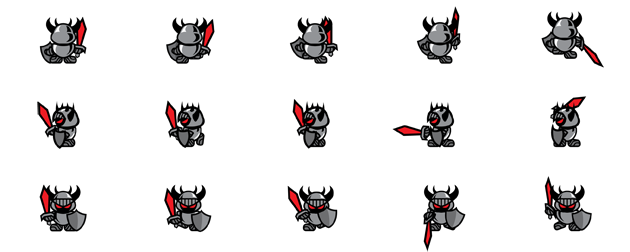
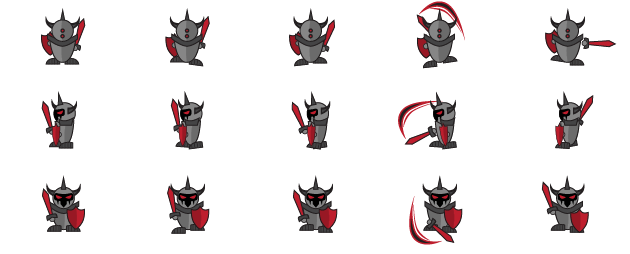
Modified AnimatedSprite and the player animation behaviour. Fixed crash in tutorial when hit by a bullet from a BulletSpawn. Applied new player animation sheets.

diff --git a/core/src/com/vhelium/lotig/components/AnimatedSprite.java b/core/src/com/vhelium/lotig/components/AnimatedSprite.java
@@ -3,18 +3,20 @@ package com.vhelium.lotig.components;
 import com.badlogic.gdx.graphics.g2d.Batch;
 import com.badlogic.gdx.graphics.g2d.TextureRegion;
 import com.badlogic.gdx.scenes.scene2d.Group;
+import com.vhelium.lotig.constants.Log;
 
 public class AnimatedSprite extends Group
 {
+	public boolean debug = false;
 	private TiledTextureRegion tiledTextureRegion;
 	private boolean animationRunning;
-	private int currentTileIndex;
+	private int currentAnimationIndex;
 	private float animationProgress;
 	private float frameTime;
 	private boolean isFlipped = false;
 	private boolean loop = false;
 	private IAnimationListener listener;
-	private int frameStart, frameEnd;
+	private int[] frames;
 	
 	public AnimatedSprite(float x, float y, TiledTextureRegion tiledTextureRegion)
 	{
@@ -25,6 +27,7 @@ public class AnimatedSprite extends Group
 	{
 		this.tiledTextureRegion = tiledTextureRegion;
 		this.setBounds(x, y, width, height);
+		currentAnimationIndex = 0;
 		updateFlip();
 	}
 	
@@ -38,18 +41,18 @@ public class AnimatedSprite extends Group
 			if(animationProgress >= frameTime)
 			{
 				animationProgress -= frameTime;
-				if(currentTileIndex >= frameEnd)
+				if(currentAnimationIndex >= frames.length - 1)
 				{
 					if(!loop)
 					{
-						currentTileIndex = frameEnd;
+						currentAnimationIndex = frames.length - 1;
 						onAnimationFinished();
 					}
 					else
-						currentTileIndex = frameStart;
+						currentAnimationIndex = 0;
 				}
 				else
-					currentTileIndex++;
+					currentAnimationIndex++;
 			}
 		}
 		super.act(delta);
@@ -59,7 +62,9 @@ public class AnimatedSprite extends Group
 	public void draw(Batch batch, float parentAlpha)
 	{
 		batch.setColor(getColor().r, getColor().g, getColor().b, getColor().a * parentAlpha);
-		batch.draw(tiledTextureRegion.getTextureRegion(currentTileIndex), this.getX(), this.getY(), this.getOriginX(), this.getOriginY(), this.getWidth(), this.getHeight(), this.getScaleX(), this.getScaleY(), this.getRotation());
+		if(debug)
+			Log.e("animatedsprite", "i: " + currentAnimationIndex + ",  frame: " + frames[currentAnimationIndex] + " --- progress: " + animationProgress);
+		batch.draw(tiledTextureRegion.getTextureRegion(frames[currentAnimationIndex]), this.getX(), this.getY(), this.getOriginX(), this.getOriginY(), this.getWidth(), this.getHeight(), this.getScaleX(), this.getScaleY(), this.getRotation());
 		super.draw(batch, parentAlpha);
 	}
 	
@@ -73,32 +78,33 @@ public class AnimatedSprite extends Group
 		animate(frameTime, loop, null);
 	}
 	
-	public void animate(float frameTime, int startFrame, int endFrame, boolean loop)
+	public void animate(float frameTime, int[] frames, boolean loop)
 	{
-		animate(frameTime, startFrame, endFrame, loop, null);
+		animate(frameTime, frames, loop, null);
 	}
 	
 	public void animate(float frameTime, boolean loop, IAnimationListener listener)
 	{
-		animate(frameTime, 0, tiledTextureRegion.getTileCount() - 1, loop, listener);
+		animate(frameTime, getFrameDefaults(), loop, listener);
 	}
 	
-	public void animate(float frameTime, int startFrame, int endFrame, boolean loop, IAnimationListener listener)
+	public void animate(float frameTime, int[] frames, boolean loop, IAnimationListener listener)
 	{
 		animationRunning = true;
 		animationProgress = 0;
 		this.frameTime = frameTime;
-		this.frameStart = startFrame;
-		this.currentTileIndex = startFrame;
-		this.frameEnd = endFrame;
+		this.frames = frames;
+		this.currentAnimationIndex = 0;
 		this.loop = loop;
 		this.listener = listener;
 	}
 	
-	public void stopAnimation(int frameIndex)
+	public void stopAnimationAt(int frameIndex)
 	{
 		animationRunning = false;
-		currentTileIndex = frameIndex;
+		currentAnimationIndex = 0;
+		animationProgress = 0;
+		frames = new int[] { frameIndex };
 	}
 	
 	private void onAnimationFinished()
@@ -134,5 +140,18 @@ public class AnimatedSprite extends Group
 			for(TextureRegion reg : tiledTextureRegion.getRegions())
 				reg.flip(true, false);
 		}
+	}
+	
+	private int[] frameDefaults;
+	
+	private int[] getFrameDefaults()
+	{
+		if(frameDefaults == null)
+		{
+			frameDefaults = new int[tiledTextureRegion.getTileCount()];
+			for(int i = 0; i < tiledTextureRegion.getTileCount(); i++)
+				frameDefaults[i] = i;
+		}
+		return frameDefaults;
 	}
 }

diff --git a/core/src/com/vhelium/lotig/scene/gamescene/client/EntityClientMixin.java b/core/src/com/vhelium/lotig/scene/gamescene/client/EntityClientMixin.java
@@ -41,6 +41,7 @@ public abstract class EntityClientMixin implements EntityMixin
 		this.asset = asset;
 		
 		sprite = new AnimatedSprite(0, 0, GameHelper.getInstance().getEntityAssetCopy(asset));
+		sprite.debug = true;
 		setWidth(width);
 		setHeight(height);
 		conditionEffects = new HashMap<String, Effect>();
@@ -87,6 +88,16 @@ public abstract class EntityClientMixin implements EntityMixin
 		}
 	}
 	
+	private final int[] framesShootBot = new int[] { 13, 14, 10 };
+	private final int[] framesShootLeft = new int[] { 8, 9, 5 };
+	private final int[] framesShootTop = new int[] { 3, 4, 0 };
+	private final int[] framesShootRight = new int[] { 8, 9, 5 };
+	
+	private final int[] framesWalkBot = new int[] { 11, 12 };
+	private final int[] framesWalkLeft = new int[] { 6, 5, 7 };
+	private final int[] framesWalkTop = new int[] { 1, 2 };
+	private final int[] framesWalkRight = new int[] { 6, 5, 7 };
+	
 	private AnimationStatus currentAnimation;
 	
 	private void playAnimation(AnimationStatus animation)
@@ -99,53 +110,53 @@ public abstract class EntityClientMixin implements EntityMixin
 			{
 				case IDLE_BOT:
 					sprite.setFlippedHorizontal(false);
-					sprite.stopAnimation(10);
+					sprite.stopAnimationAt(10);
 					break;
 				case IDLE_LEFT:
 					sprite.setFlippedHorizontal(false);
-					sprite.stopAnimation(5);
+					sprite.stopAnimationAt(5);
 					break;
 				case IDLE_TOP:
 					sprite.setFlippedHorizontal(false);
-					sprite.stopAnimation(0);
+					sprite.stopAnimationAt(0);
 					break;
 				case IDLE_RIGHT:
 					sprite.setFlippedHorizontal(true);
-					sprite.stopAnimation(5);
+					sprite.stopAnimationAt(5);
 					break;
 				
 				case SHOOTING_BOT:
 					sprite.setFlippedHorizontal(false);
-					sprite.animate(shootSpeed / 2, 13, 14, false);
+					sprite.animate(shootSpeed / 3f, framesShootBot, false);
 					break;
 				case SHOOTING_LEFT:
 					sprite.setFlippedHorizontal(false);
-					sprite.animate(shootSpeed / 2, 8, 9, false);
+					sprite.animate(shootSpeed / 3f, framesShootLeft, false);
 					break;
 				case SHOOTING_TOP:
 					sprite.setFlippedHorizontal(false);
-					sprite.animate(shootSpeed / 2, 3, 4, false);
+					sprite.animate(shootSpeed / 3f, framesShootTop, false);
 					break;
 				case SHOOTING_RIGHT:
 					sprite.setFlippedHorizontal(true);
-					sprite.animate(shootSpeed / 2, 8, 9, false);
+					sprite.animate(shootSpeed / 3f, framesShootRight, false);
 					break;
 				
 				case WALKING_BOT:
 					sprite.setFlippedHorizontal(false);
-					sprite.animate(200, 11, 12, true);
+					sprite.animate(200, framesWalkBot, true);
 					break;
 				case WALKING_LEFT:
 					sprite.setFlippedHorizontal(false);
-					sprite.animate(200, 6, 7, true);//133
+					sprite.animate(133, framesWalkLeft, true);//133
 					break;
 				case WALKING_TOP:
 					sprite.setFlippedHorizontal(false);
-					sprite.animate(200, 1, 2, true);
+					sprite.animate(200, framesWalkTop, true);
 					break;
 				case WALKING_RIGHT:
 					sprite.setFlippedHorizontal(true);
-					sprite.animate(200, 6, 7, true);//133
+					sprite.animate(133, framesWalkRight, true);//133
 					break;
 				case NONE:
 					break;

diff --git a/core/src/com/vhelium/lotig/scene/gamescene/server/levelobject/LevelObject_Door.java b/core/src/com/vhelium/lotig/scene/gamescene/server/levelobject/LevelObject_Door.java
@@ -40,7 +40,7 @@ public class LevelObject_Door extends LevelObject
 		this.state = state;
 		
 		sprite = new AnimatedSprite(x, y, w, h, GameHelper.getInstance().getGameAssetTiledTextureRegion(asset, 2, 1));
-		((AnimatedSprite) sprite).stopAnimation(state);
+		((AnimatedSprite) sprite).stopAnimationAt(state);
 		bounds = new Rectangle(x, y, w, h);
 		
 		this.collision = state == 0;
@@ -69,7 +69,7 @@ public class LevelObject_Door extends LevelObject
 	{
 		if(sprite != null)
 		{
-			((AnimatedSprite) sprite).stopAnimation(state);
+			((AnimatedSprite) sprite).stopAnimationAt(state);
 			SoundManager.playSound(SoundFile.gate_open);
 		}
 	}

diff --git a/core/src/com/vhelium/lotig/scene/gamescene/server/levelobject/LevelObject_Lever.java b/core/src/com/vhelium/lotig/scene/gamescene/server/levelobject/LevelObject_Lever.java
@@ -30,7 +30,7 @@ public class LevelObject_Lever extends LevelObject
 		asset = "Lever";
 		
 		sprite = new AnimatedSprite(x, y, w, h, GameHelper.getInstance().getGameAssetTiledTextureRegion(asset, 2, 1));
-		((AnimatedSprite) sprite).stopAnimation(0);
+		((AnimatedSprite) sprite).stopAnimationAt(0);
 		bounds = new Rectangle(x, y, w, h);
 		
 		this.state = state;
@@ -64,7 +64,7 @@ public class LevelObject_Lever extends LevelObject
 	{
 		if(sprite != null)
 		{
-			((AnimatedSprite) sprite).stopAnimation(state);
+			((AnimatedSprite) sprite).stopAnimationAt(state);
 		}
 	}
 	

diff --git a/core/src/com/vhelium/lotig/scene/gamescene/server/levelobject/LevelObject_LevelExit.java b/core/src/com/vhelium/lotig/scene/gamescene/server/levelobject/LevelObject_LevelExit.java
@@ -90,15 +90,18 @@ public class LevelObject_LevelExit extends LevelObject
 			}
 	}
 	
+	private final int[] frames1 = new int[] { 0, 1, 2 };
+	private final int[] frames2 = new int[] { 3, 4, 5 };
+	
 	@Override
 	public void stateChangedClient(int state)
 	{
 		if(sprite != null)
 		{
 			if(state == 0)
-				((AnimatedSprite) sprite).animate(100, 0, 2, true);
+				((AnimatedSprite) sprite).animate(100, frames1, true);
 			else
-				((AnimatedSprite) sprite).animate(100, 3, 5, true);
+				((AnimatedSprite) sprite).animate(100, frames2, true);
 		}
 	}
 }

diff --git a/core/src/com/vhelium/lotig/scene/gamescene/server/levelobject/LevelObject_NextLevel.java b/core/src/com/vhelium/lotig/scene/gamescene/server/levelobject/LevelObject_NextLevel.java
@@ -87,15 +87,18 @@ public class LevelObject_NextLevel extends LevelObject
 			}
 	}
 	
+	private final int[] frames1 = new int[] { 0, 1, 2 };
+	private final int[] frames2 = new int[] { 3, 4, 5 };
+	
 	@Override
 	public void stateChangedClient(int state)
 	{
 		if(sprite != null)
 		{
 			if(state == 0)
-				((AnimatedSprite) sprite).animate(100, 0, 2, true);
+				((AnimatedSprite) sprite).animate(100, frames1, true);
 			else
-				((AnimatedSprite) sprite).animate(100, 3, 5, true);
+				((AnimatedSprite) sprite).animate(100, frames2, true);
 		}
 	}
 	

diff --git a/core/src/com/vhelium/lotig/scene/gamescene/server/levelobject/LevelObject_LairPortal.java b/core/src/com/vhelium/lotig/scene/gamescene/server/levelobject/LevelObject_LairPortal.java
@@ -71,15 +71,18 @@ public class LevelObject_LairPortal extends LevelObject
 		
 	}
 	
+	private final int[] frames1 = new int[] { 0, 1, 2 };
+	private final int[] frames2 = new int[] { 3, 4, 5 };
+	
 	@Override
 	public void stateChangedClient(int state)
 	{
 		if(sprite != null)
 		{
 			if(state == 1)
-				((AnimatedSprite) sprite).animate(200, 0, 2, true);
+				((AnimatedSprite) sprite).animate(200, frames1, true);
 			else
-				((AnimatedSprite) sprite).animate(200, 3, 5, true);
+				((AnimatedSprite) sprite).animate(200, frames2, true);
 		}
 	}
 	

diff --git a/core/src/com/vhelium/lotig/scene/gamescene/server/levelobject/LevelObject_TownExit.java b/core/src/com/vhelium/lotig/scene/gamescene/server/levelobject/LevelObject_TownExit.java
@@ -67,15 +67,18 @@ public class LevelObject_TownExit extends LevelObject
 			}
 	}
 	
+	private final int[] frames1 = new int[] { 0, 1, 2 };
+	private final int[] frames2 = new int[] { 3, 4, 5 };
+	
 	@Override
 	public void stateChangedClient(int state)
 	{
 		if(sprite != null)
 		{
 			if(state == 0)
-				((AnimatedSprite) sprite).animate(100, 0, 2, true);
+				((AnimatedSprite) sprite).animate(100, frames1, true);
 			else
-				((AnimatedSprite) sprite).animate(100, 3, 5, true);
+				((AnimatedSprite) sprite).animate(100, frames2, true);
 		}
 	}
 }

diff --git a/core/src/com/vhelium/lotig/scene/gamescene/server/levelobject/LevelObject_NPC.java b/core/src/com/vhelium/lotig/scene/gamescene/server/levelobject/LevelObject_NPC.java
@@ -54,7 +54,7 @@ public class LevelObject_NPC extends LevelObject
 		bounds = new Rectangle(x, y, w, h);
 		TiledTextureRegion txt = GameHelper.getInstance().getGameAssetTiledTextureRegion(asset, animated ? 2 : 1, 1);
 		sprite = new AnimatedSprite(x + w / 2 - txt.getTileWidth() / 2, y + h / 2 - txt.getTileHeight() / 2, txt.getTileWidth(), txt.getTileHeight(), txt);
-		((AnimatedSprite) sprite).stopAnimation(0);
+		((AnimatedSprite) sprite).stopAnimationAt(0);
 		if(animated)
 			((AnimatedSprite) sprite).animate(animationTime);
 	}

diff --git a/core/src/com/vhelium/lotig/scene/gamescene/server/levelobject/LevelObject_Shrine.java b/core/src/com/vhelium/lotig/scene/gamescene/server/levelobject/LevelObject_Shrine.java
@@ -96,15 +96,17 @@ public class LevelObject_Shrine extends LevelObject
 		
 	}
 	
+	private final int[] frames = new int[] { 0, 1 };
+	
 	@Override
 	public void stateChangedClient(int state)
 	{
 		if(sprite != null)
 		{
 			if(state == 0)
-				((AnimatedSprite) sprite).stopAnimation(2);
+				((AnimatedSprite) sprite).stopAnimationAt(2);
 			else
-				((AnimatedSprite) sprite).animate(222, 0, 1, true);
+				((AnimatedSprite) sprite).animate(222, frames, true);
 		}
 	}
 	

diff --git a/core/src/com/vhelium/lotig/scene/gamescene/server/levelobject/LevelObject_Trap.java b/core/src/com/vhelium/lotig/scene/gamescene/server/levelobject/LevelObject_Trap.java
@@ -90,7 +90,7 @@ public class LevelObject_Trap extends LevelObject
 		this.animationTime = animationTime;
 		
 		sprite = new AnimatedSprite(x, y, w, h, GameHelper.getInstance().getGameAssetTiledTextureRegion(asset, animated ? 2 : 1, 1));
-		((AnimatedSprite) sprite).stopAnimation(0);
+		((AnimatedSprite) sprite).stopAnimationAt(0);
 		if(animated)
 			((AnimatedSprite) sprite).animate(animationTime);
 		bounds = new Rectangle(x, y, w, h);

diff --git a/core/src/com/vhelium/lotig/scene/gamescene/server/levelobject/LevelObject_Vortex.java b/core/src/com/vhelium/lotig/scene/gamescene/server/levelobject/LevelObject_Vortex.java
@@ -63,7 +63,7 @@ public class LevelObject_Vortex extends LevelObject
 		
 		sprite = new AnimatedSprite(x, y, w, h, GameHelper.getInstance().getGameAssetTiledTextureRegion(asset, 1, 1));
 		sprite.setOrigin(w / 2, h / 2);
-		((AnimatedSprite) sprite).stopAnimation(0);
+		((AnimatedSprite) sprite).stopAnimationAt(0);
 		if(rotation)
 			sprite.addAction(Actions.forever(Actions.rotateBy(360, 2f)));
 		bounds = new Rectangle(x, y, w, h);
